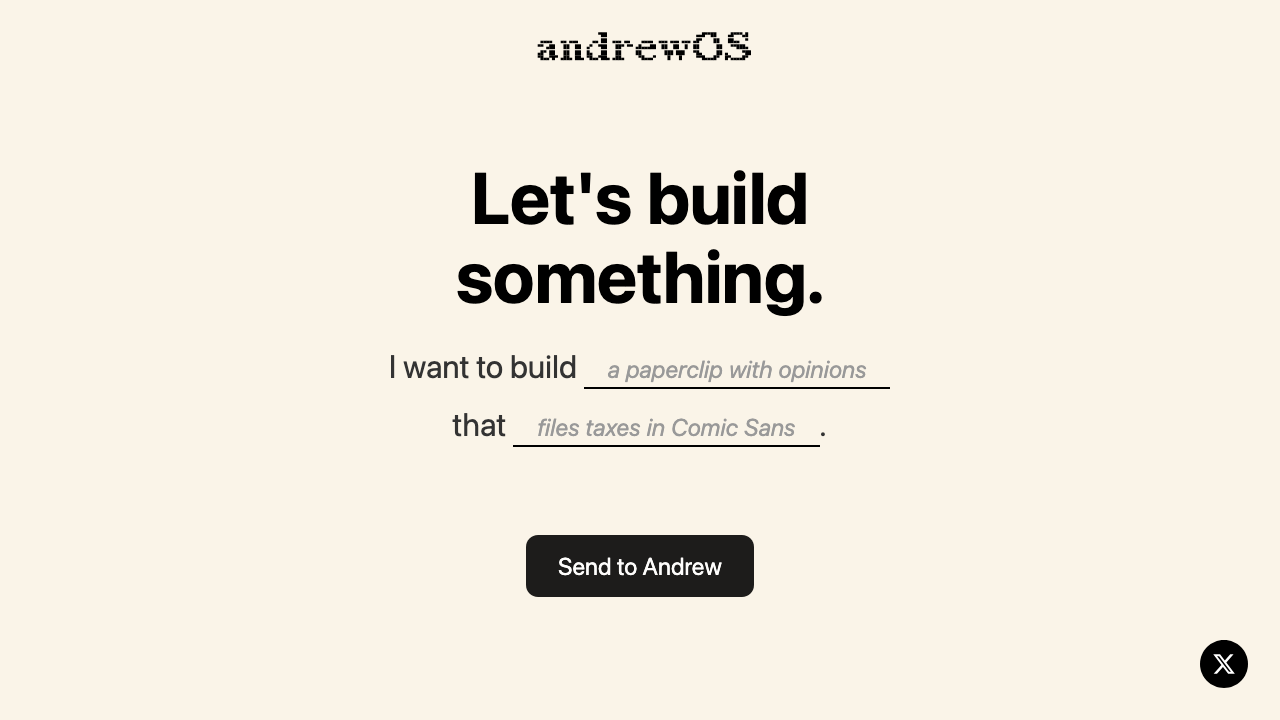
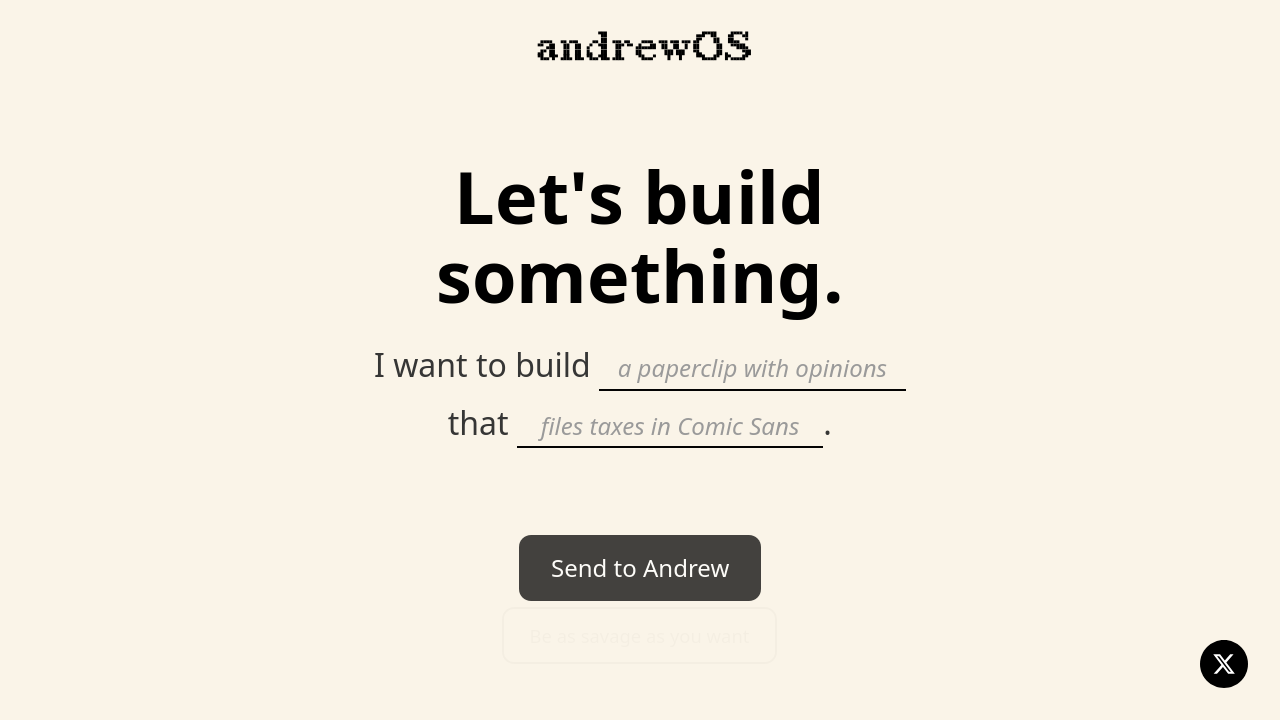
Show the VoxBot feedback form immediately and keep it off the madlib.
Deep links land on a visible form (GitHub Pages /feedback), tests wait for
the fade-in, and homepage screenshots include the separate savage button.

diff --git a/feedback/index.html b/feedback/index.html
@@ -88,13 +88,18 @@
         box-sizing: border-box;
       }
       .feedback-form textarea {
-        min-height: 7rem;
+        min-height: 6.5rem;
         resize: vertical;
         line-height: 1.4;
+        text-align: left;
+        padding: 0.85rem 1rem;
+        border: 2px solid #000;
+        border-radius: 12px;
       }
       .feedback-form textarea:focus,
       .feedback-form input[type="text"]:focus {
         outline: none;
+        border-color: #c80000;
         border-bottom-color: #c80000;
       }
       .feedback-form textarea::placeholder,
@@ -168,10 +173,11 @@
       @media screen and (max-width: 428px) {
         body {
           padding: 1rem;
-          justify-content: space-between;
+          justify-content: flex-start;
           min-height: 100vh;
           max-width: 100vw;
           overflow-x: hidden;
+          padding-bottom: 5rem;
         }
         .ascii-art {
           font-size: 0.4rem;
@@ -197,14 +203,7 @@
           width: calc(100vw - 4rem);
         }
         .x-button {
-          bottom: 1rem;
-          right: 1rem;
-          width: 40px;
-          height: 40px;
-        }
-        .x-button svg {
-          width: 20px;
-          height: 20px;
+          display: none;
         }
       }
     </style>
@@ -239,7 +238,7 @@
    ▄█▀ ██   ██  ██  █▄   ██   ██     ██        ███ ███   ▀█▄     ██ ▄     ▀██
   ▀█▄▄▀█▀ ▄██▄ ██▄ ▀█▄▄▀██▄ ▄██▄     ▀█▄▄▄▀    █   █     ▀▀█▄▄▄█▀  █▀▄▄▄▄█▀</pre>
     <h1 class="header">Be as savage<br>as you want.</h1>
-    <form class="feedback-form" id="voxbot-feedback-form" action="https://formspree.io/f/mwpljayb" method="POST" onsubmit="return false;">
+    <form class="feedback-form fade-in" id="voxbot-feedback-form" action="https://formspree.io/f/mwpljayb" method="POST" onsubmit="return false;">
       <p class="feedback-prompt">Andrew made VoxBot. Tell him the truth.</p>
       <textarea id="feedback-message" name="feedback" required placeholder="the voice, the jokes, the whole thing — go."></textarea>
       <input type="text" id="feedback-name" name="name" placeholder="name or handle (optional)" autocomplete="nickname">
@@ -248,8 +247,8 @@
       <input type="hidden" name="type" value="voxbot-feedback">
       <input type="hidden" name="form" value="voxbot-feedback">
     </form>
-    <button type="button" class="feedback-send" id="feedback-send">Leave Andrew feedback</button>
-    <div class="feedback-nod" id="feedback-nod">he can take it.</div>
+    <button type="button" class="feedback-send fade-in" id="feedback-send">Leave Andrew feedback</button>
+    <div class="feedback-nod fade-in" id="feedback-nod">he can take it.</div>
     <script src="/js/type-text.js"></script>
     <script src="/js/voxbot-feedback.js"></script>
     <script>
@@ -259,15 +258,11 @@
         const sendButton = document.getElementById('feedback-send');
         const nodEl = document.getElementById('feedback-nod');
 
-        typeHeaderText(header, "Be as savage<br>as you want.", () => {
-          formRoot.classList.add('fade-in');
-          setTimeout(() => {
-            sendButton.classList.add('fade-in');
-            setTimeout(() => {
-              nodEl.classList.add('fade-in');
-            }, 400);
-          }, 250);
-        });
+        // Form is the point of the deep link — show it immediately, type the header around it.
+        formRoot.classList.add('fade-in');
+        sendButton.classList.add('fade-in');
+        nodEl.classList.add('fade-in');
+        typeHeaderText(header, "Be as savage<br>as you want.");
 
         bindVoxbotFeedbackForm({
           header,

diff --git a/tests/ui/feedback.spec.js b/tests/ui/feedback.spec.js
@@ -12,6 +12,20 @@ async function settledHeader(page) {
 }
 
 test.describe('voxbot creator feedback', () => {
+  test.beforeEach(async ({ page }) => {
+    await page.route('https://storage.ko-fi.com/**', async (route) => {
+      if (route.request().url().includes('overlay-widget.js')) {
+        await route.fulfill({
+          status: 200,
+          contentType: 'application/javascript',
+          body: 'window.kofiWidgetOverlay = { draw() {} };',
+        });
+        return;
+      }
+      await route.abort();
+    });
+  });
+
   test('/feedback shows a separate feedback form, not the madlib', async ({ page }, testInfo) => {
     const response = await page.goto('/feedback');
     expect(response?.ok()).toBeTruthy();
@@ -22,7 +36,8 @@ test.describe('voxbot creator feedback', () => {
     await expect(page.locator('.madlib')).toHaveCount(0);
     await expect(page.locator('.initial-button')).toHaveCount(0);
 
-    await expect(page.locator('#voxbot-feedback-form')).toBeVisible({ timeout: 15_000 });
+    await expect(page.locator('#voxbot-feedback-form')).toHaveClass(/fade-in/, { timeout: 15_000 });
+    await expect(page.locator('#feedback-send')).toHaveClass(/fade-in/);
     await expect(page.locator('#feedback-message')).toBeVisible();
     await expect(page.locator('#feedback-name')).toBeVisible();
     await expect(page.locator('#feedback-contact')).toBeVisible();
@@ -31,7 +46,7 @@ test.describe('voxbot creator feedback', () => {
 
     await expect
       .poll(async () => settledHeader(page), { timeout: 15_000 })
-      .toMatch(/savage/i);
+      .toBe('Be as savage as you want.');
 
     mkdirSync(SCREENSHOT_DIR, { recursive: true });
     await page.screenshot({
@@ -55,8 +70,12 @@ test.describe('voxbot creator feedback', () => {
     await expect(open).toHaveAttribute('href', /\/feedback/);
     await open.click();
     await expect(page).toHaveURL(/\/feedback/);
-    await expect(page.locator('#feedback-message')).toBeVisible({ timeout: 15_000 });
+    await expect(page.locator('#voxbot-feedback-form')).toHaveClass(/fade-in/, { timeout: 15_000 });
+    await expect(page.locator('#feedback-message')).toBeVisible();
     await expect(page.locator('#what')).toHaveCount(0);
+    await expect
+      .poll(async () => settledHeader(page), { timeout: 15_000 })
+      .toBe('Be as savage as you want.');
 
     mkdirSync(SCREENSHOT_DIR, { recursive: true });
     await page.screenshot({

diff --git a/index.html b/index.html
@@ -249,6 +249,7 @@
         .feedback-open-button {
           font-size: 1.15rem;
           margin-top: 1rem;
+          margin-bottom: 5rem;
         }
         
         .final-subtitle {
@@ -401,10 +402,8 @@
             document.querySelector('.madlib').classList.add('fade-in');
             setTimeout(() => {
               document.querySelector('.initial-button').classList.add('fade-in');
-              setTimeout(() => {
-                const feedbackOpen = document.querySelector('.feedback-open-button');
-                if (feedbackOpen) feedbackOpen.classList.add('fade-in');
-              }, 200);
+              const feedbackOpen = document.querySelector('.feedback-open-button');
+              if (feedbackOpen) feedbackOpen.classList.add('fade-in');
             }, 200);
           }, 200);
         });
